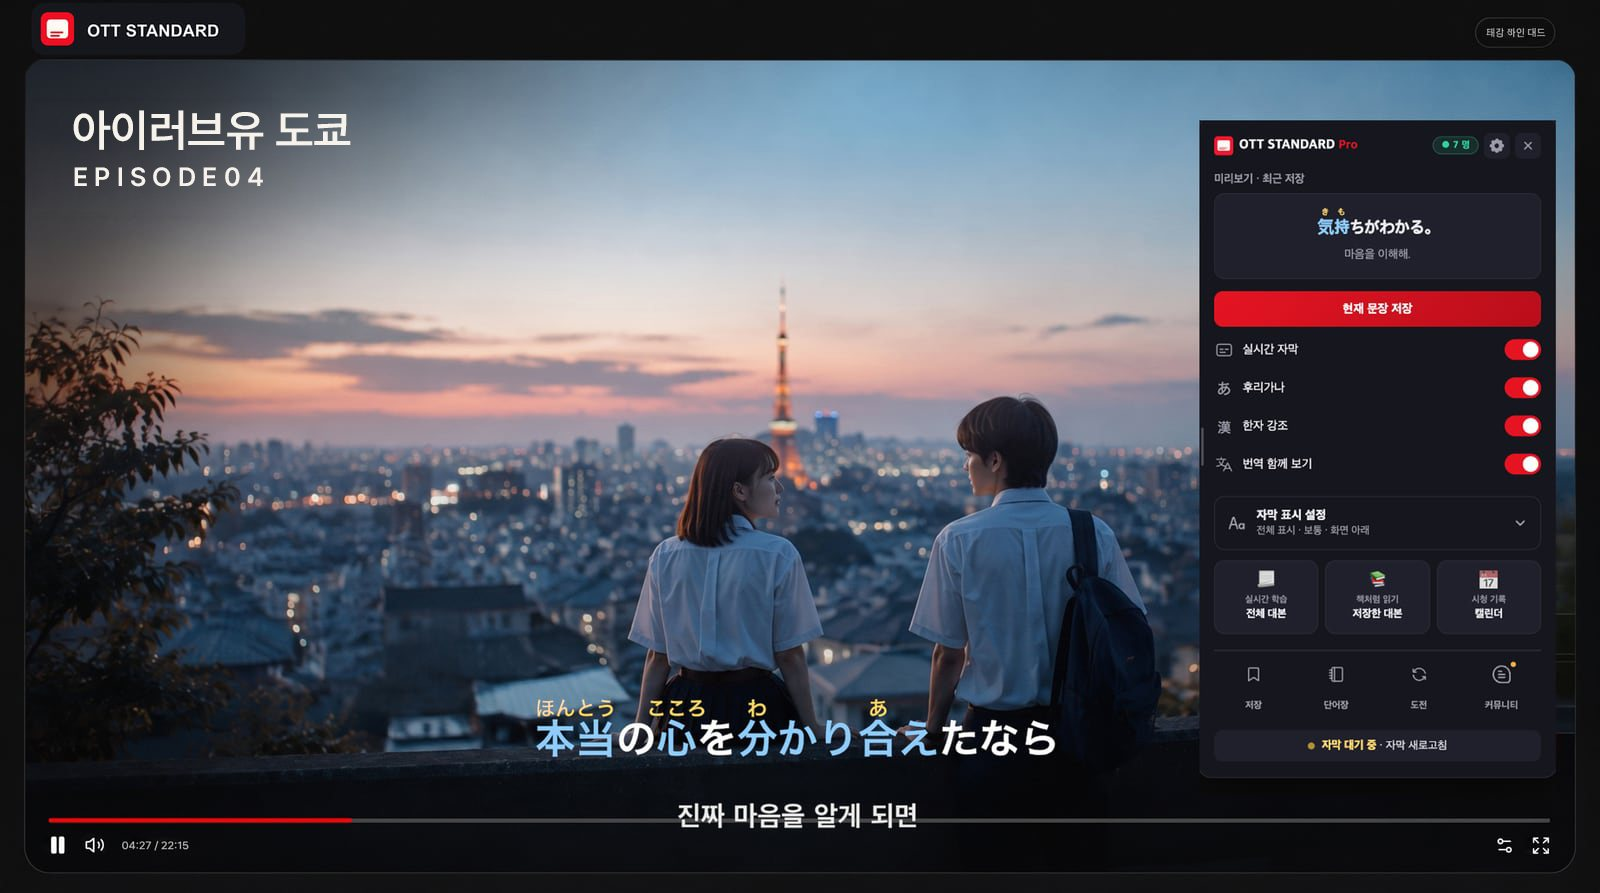
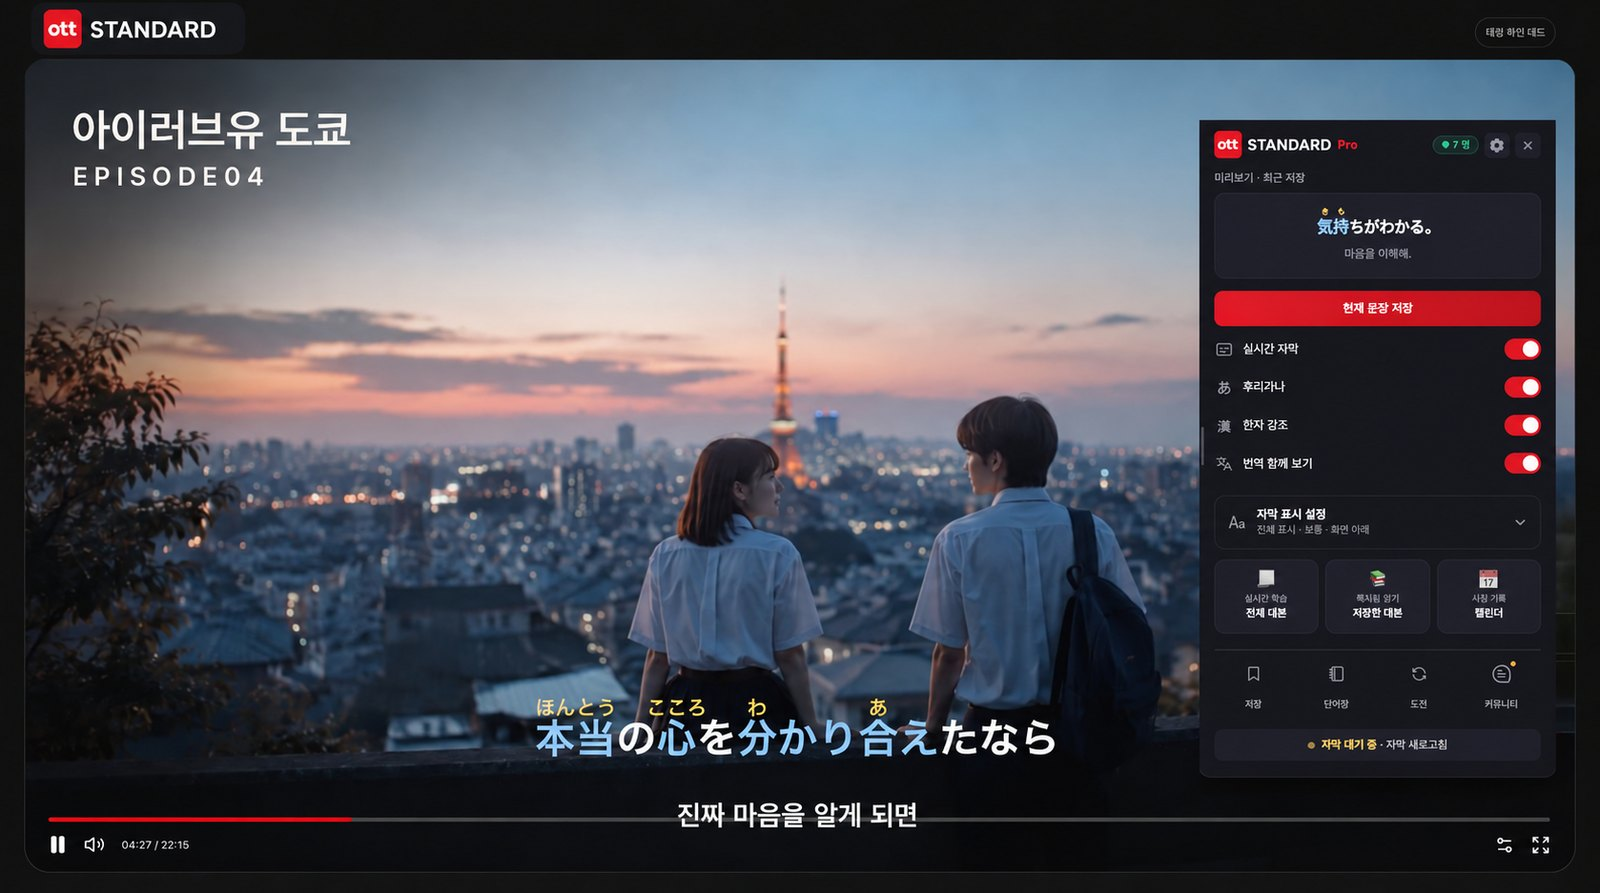
히어로 이미지 교체: 새 ott 로고 반영 버전으로 변경

diff --git a/index.html b/index.html
@@ -22,7 +22,7 @@
  },9000);
 })();
 </script></div><div><p class="intro">좋아하는 영상을 보다가 마음에 남은 한 문장.<br>그 문장을 읽고, 저장하고, 다시 익혀 보세요.<br><strong>직접 공부하며 필요했던 기능</strong>을<br>몇 년에 걸쳐 하나씩 다듬었습니다.</p><div class="actions"><a class="button primary" href="/start/">시작하기</a><a class="button " href="/learning/">학습 콘텐츠 둘러보기</a></div></div></div>
-<figure><div class="visual"><img src="/assets/hero.jpg" width="1600" height="893" alt="영상 옆에 OTT STANDARD 학습 패널이 열리고, 일본어 후리가나와 한국어 번역이 함께 표시된 제품 소개 이미지" fetchpriority="high"></div><figcaption class="visual-caption" style="justify-content:flex-end;"><span>제품 소개 이미지 · 화면은 버전에 따라 달라질 수 있습니다.</span></figcaption></figure>
+<figure><div class="visual"><img src="/assets/hero.jpg?v=hero2" width="1600" height="893" alt="영상 옆에 OTT STANDARD 학습 패널이 열리고, 일본어 후리가나와 한국어 번역이 함께 표시된 제품 소개 이미지" fetchpriority="high"></div><figcaption class="visual-caption" style="justify-content:flex-end;"><span>제품 소개 이미지 · 화면은 버전에 따라 달라질 수 있습니다.</span></figcaption></figure>
 
 <div class="home-stats"><div style="display:grid;grid-template-columns:auto minmax(0,max-content);grid-template-rows:auto auto;column-gap:14px;row-gap:6px;align-content:center;justify-content:center;padding-inline:8px;"><svg xmlns="http://www.w3.org/2000/svg" width="52" height="52" viewBox="0 0 24 24" fill="none" stroke="currentColor" stroke-width="1.7" stroke-linecap="round" stroke-linejoin="round" aria-hidden="true" focusable="false" style="grid-column:1;grid-row:1 / 3;align-self:center;width:clamp(36px,5vw,52px);height:auto;color:#ff102b"><path d="M20 11a7 7 0 0 1-7 7H8l-5 3v-6a7 7 0 0 1-1-4 7 7 0 0 1 7-7h4a7 7 0 0 1 7 7Z"/><path d="M7 9h8M7 13h5"/></svg><b style="grid-column:2;grid-row:1;margin:0;line-height:1.2;">70개 챕터</b><span style="grid-column:2;grid-row:2;margin:0;">일본어 70일 생활여행</span></div><div style="display:grid;grid-template-columns:auto minmax(0,max-content);grid-template-rows:auto auto;column-gap:14px;row-gap:6px;align-content:center;justify-content:center;padding-inline:8px;"><svg xmlns="http://www.w3.org/2000/svg" width="52" height="52" viewBox="0 0 24 24" fill="none" stroke="currentColor" stroke-width="1.7" stroke-linecap="round" stroke-linejoin="round" aria-hidden="true" focusable="false" style="grid-column:1;grid-row:1 / 3;align-self:center;width:clamp(36px,5vw,52px);height:auto;color:#ff102b"><rect x="3" y="3" width="18" height="18" rx="4"/><text x="12" y="12" dy=".35em" text-anchor="middle" fill="currentColor" stroke="none" font-family="GuideJapanese, GuidePretendard, sans-serif" font-size="12" font-weight="400" style="letter-spacing:0">漢</text></svg><b style="grid-column:2;grid-row:1;margin:0;line-height:1.2;">2,136자</b><span style="grid-column:2;grid-row:2;margin:0;">한자 학습과 복습, 도감</span></div><div style="display:grid;grid-template-columns:auto minmax(0,max-content);grid-template-rows:auto auto;column-gap:14px;row-gap:6px;align-content:center;justify-content:center;padding-inline:8px;"><svg xmlns="http://www.w3.org/2000/svg" width="52" height="52" viewBox="0 0 24 24" fill="none" stroke="currentColor" stroke-width="1.7" stroke-linecap="round" stroke-linejoin="round" aria-hidden="true" focusable="false" style="grid-column:1;grid-row:1 / 3;align-self:center;width:clamp(36px,5vw,52px);height:auto;color:#ff102b"><path d="M12 8C9 6 5 6 2 7v13c3-1 7-1 10 1 3-2 7-2 10-1v-8M12 8v13M5 11h3M5 15h3"/><path d="m15 10 1-4 4-4 3 3-4 4-4 1ZM19 3l3 3"/></svg><b style="grid-column:2;grid-row:1;margin:0;line-height:1.2;">25편</b><span style="grid-column:2;grid-row:2;margin:0;">옛날 이야기 읽기와 낭독</span></div></div></section>
 <section class="section"><div class="section-heading-row"><div class="section-head"><span class="section-number">배울 수 있는 것</span><h2>영상이 끝나도,<br>공부는 이어집니다.</h2></div><a class="text-link" href="/learning/">전체 학습 콘텐츠 보기 ↗</a></div><div class="portal-grid">
